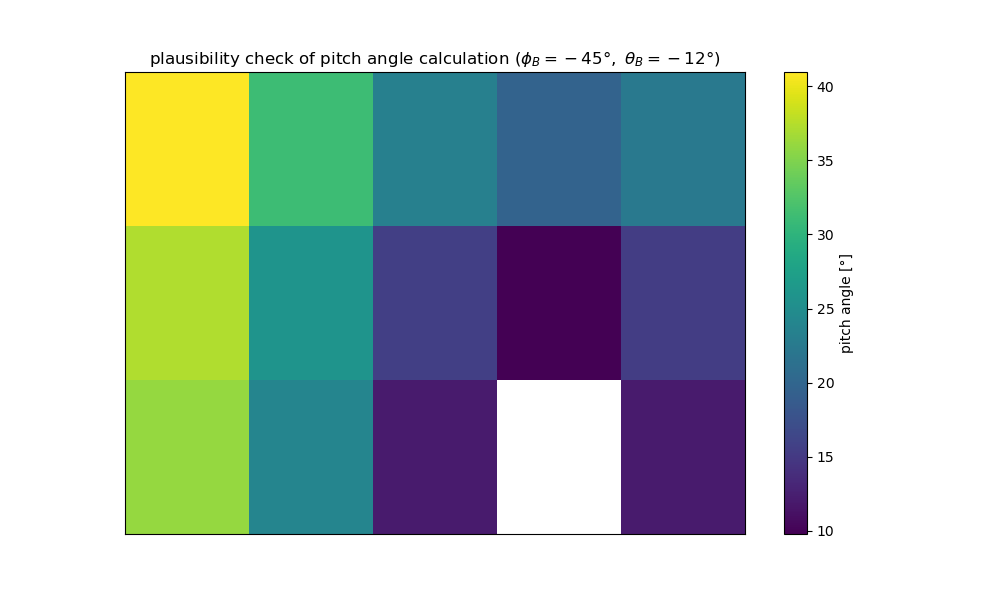
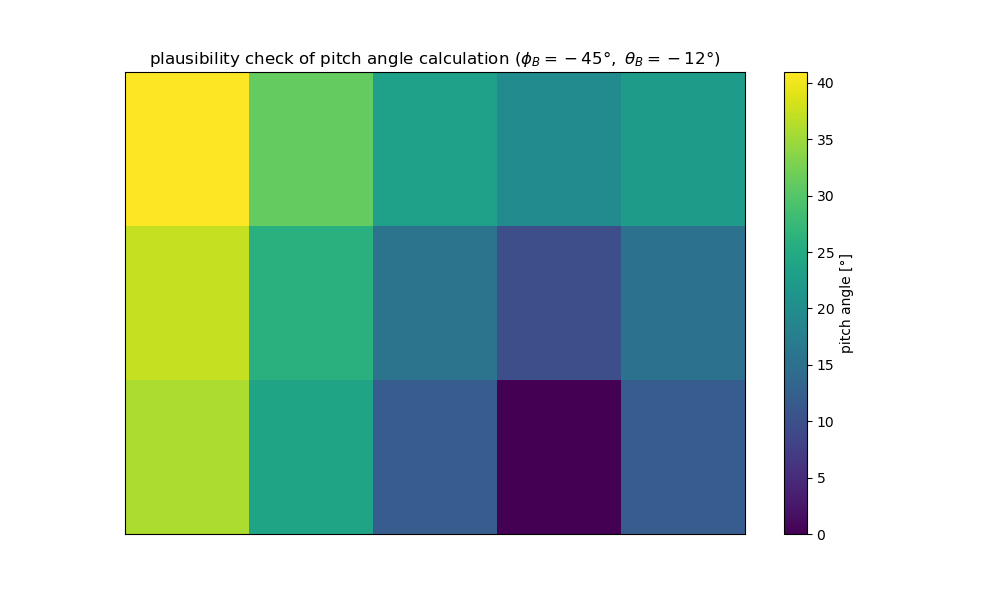
Pitchwinkel hardgecodet

diff --git a/workbench.py b/workbench.py
@@ -43,12 +43,16 @@ fov = np.array([[-25,24],[-25,12],[-25,0],[-25,-12],[-25,-24],[-35,24],[-35,12],
 
 def pw(v_theta,v_phi,B_theta,B_phi):
     '''Wichtig ist die Normierung zu beachten. Wenn ich die RTN-Koordinaten über die Winkel beschreibe, kann ich die Vorfaktoren 1 setzen. Numpy nimmt die
-    Winkel in Radians'''
+    Winkel in Radians. Muss den Spezialfall von Werten größer 1 im arccos abfangen.'''
     v_theta = v_theta/360*2*np.pi
     v_phi = v_phi/360*2*np.pi
     B_theta = B_theta/360*2*np.pi
     B_phi = B_phi/360*2*np.pi
-    return (np.arccos(np.cos(v_theta)*np.cos(v_phi)*np.cos(B_theta)*np.cos(B_phi) + np.cos(v_theta)*np.sin(v_phi)*np.cos(B_theta)*np.sin(B_phi) + np.sin(v_theta)*np.sin(B_theta)))/np.pi*180
+    argument = np.cos(v_theta)*np.cos(v_phi)*np.cos(B_theta)*np.cos(B_phi) + np.cos(v_theta)*np.sin(v_phi)*np.cos(B_theta)*np.sin(B_phi) + np.sin(v_theta)*np.sin(B_theta)
+    if argument > 1.0 and v_theta == B_theta and v_phi == B_phi:
+        argument = 1.0
+    pitchangle = np.arccos(argument)/np.pi*180
+    return pitchangle
 
 B_phi = -35
 B_theta = 0
